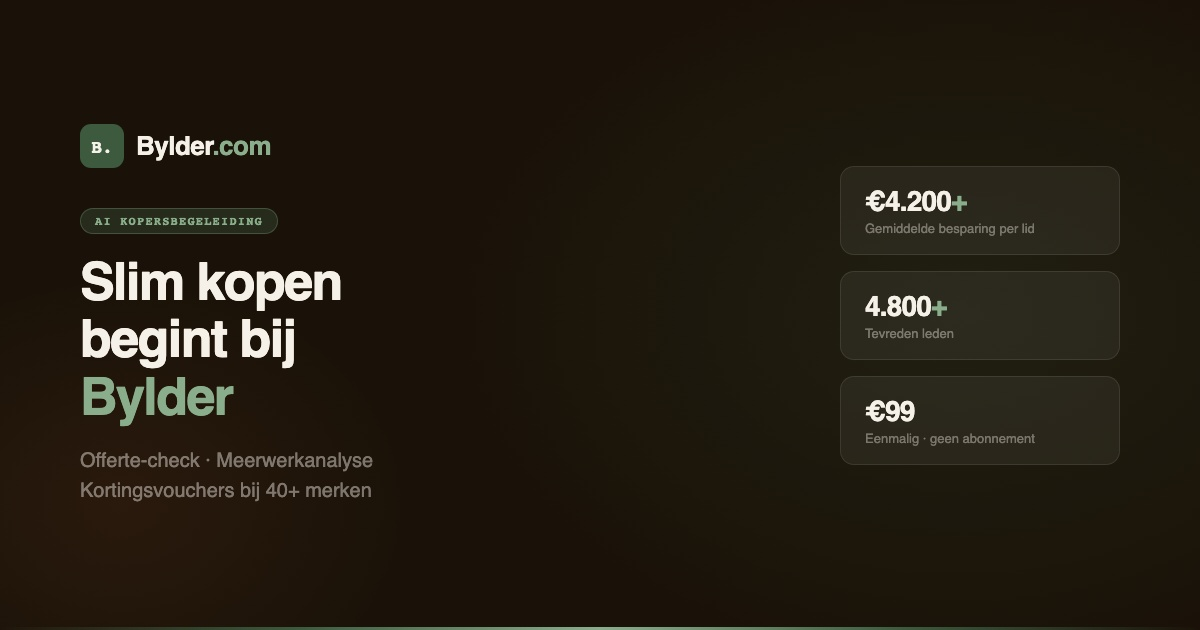
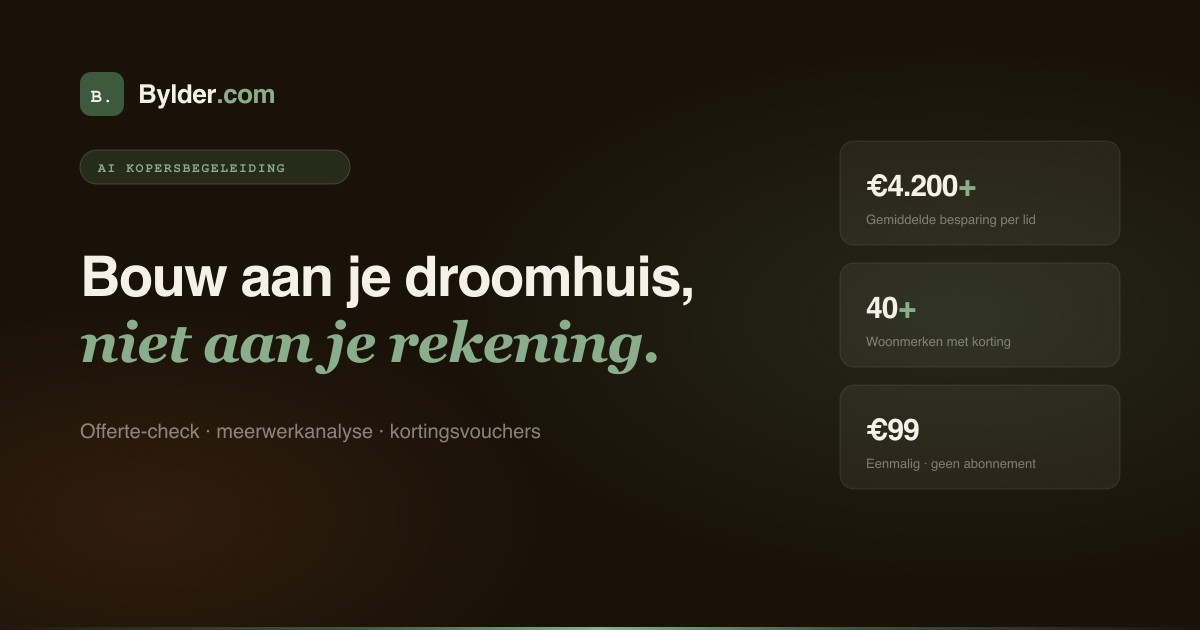
OG-afbeelding vernieuwd met nieuwe slogan
Nieuwe og-image.jpg (1200x630) met "Bouw aan je droomhuis, niet aan je
rekening." + proefpunten (€4.200 / 40+ merken / €99). Gerenderd via sharp
uit _og-templates/og-image.svg (nieuwe canonieke bron); HTML-template
bijgewerkt. Member-count-stat vervangen door "40+ woonmerken" (consistent;
og-template zei 4.800, voucherpagina 12.400 — nog gelijk te trekken).

Default og-image.jpg wordt door ~38.6k pagina's gebruikt -> 1 bestand
propageert de nieuwe kaart sitewide.

diff --git a/_og-templates/og-image.html b/_og-templates/og-image.html
@@ -134,8 +134,9 @@
       <span class="logo-name">Bylder<span>.com</span></span>
     </div>
     <div class="label">AI Kopersbegeleiding</div>
-    <h1>Slim kopen<br>begint bij<br><span>Bylder</span></h1>
-    <p class="sub">Offerte-check · Meerwerkanalyse<br>Kortingsvouchers bij 40+ merken</p>
+    <!-- Actuele render-bron: _og-templates/og-image.svg (gerenderd via sharp) -->
+    <h1>Bouw aan je droomhuis,<br><span style="font-style:italic;">niet aan je rekening.</span></h1>
+    <p class="sub">Offerte-check · meerwerkanalyse · kortingsvouchers</p>
   </div>
   <div class="right">
     <div class="pill">
@@ -143,8 +144,8 @@
       <div class="pill-label">Gemiddelde besparing per lid</div>
     </div>
     <div class="pill">
-      <div class="pill-num">4.800<span>+</span></div>
-      <div class="pill-label">Tevreden leden</div>
+      <div class="pill-num">40<span>+</span></div>
+      <div class="pill-label">Woonmerken met korting</div>
     </div>
     <div class="pill">
       <div class="pill-num">€99</div>
